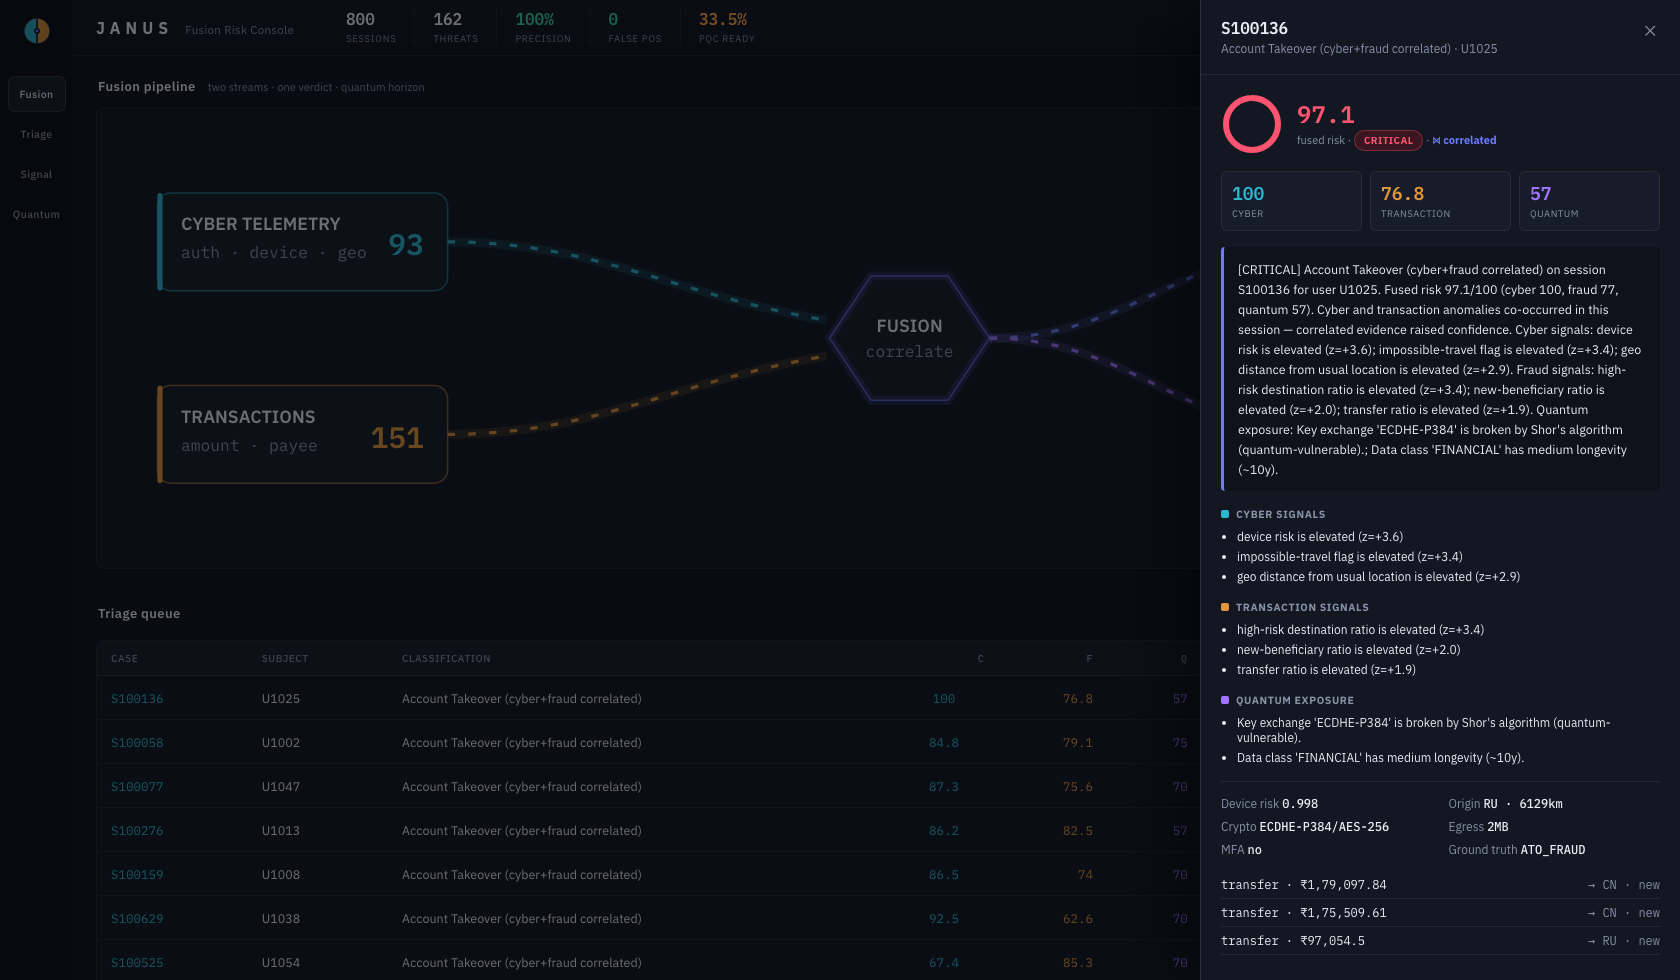
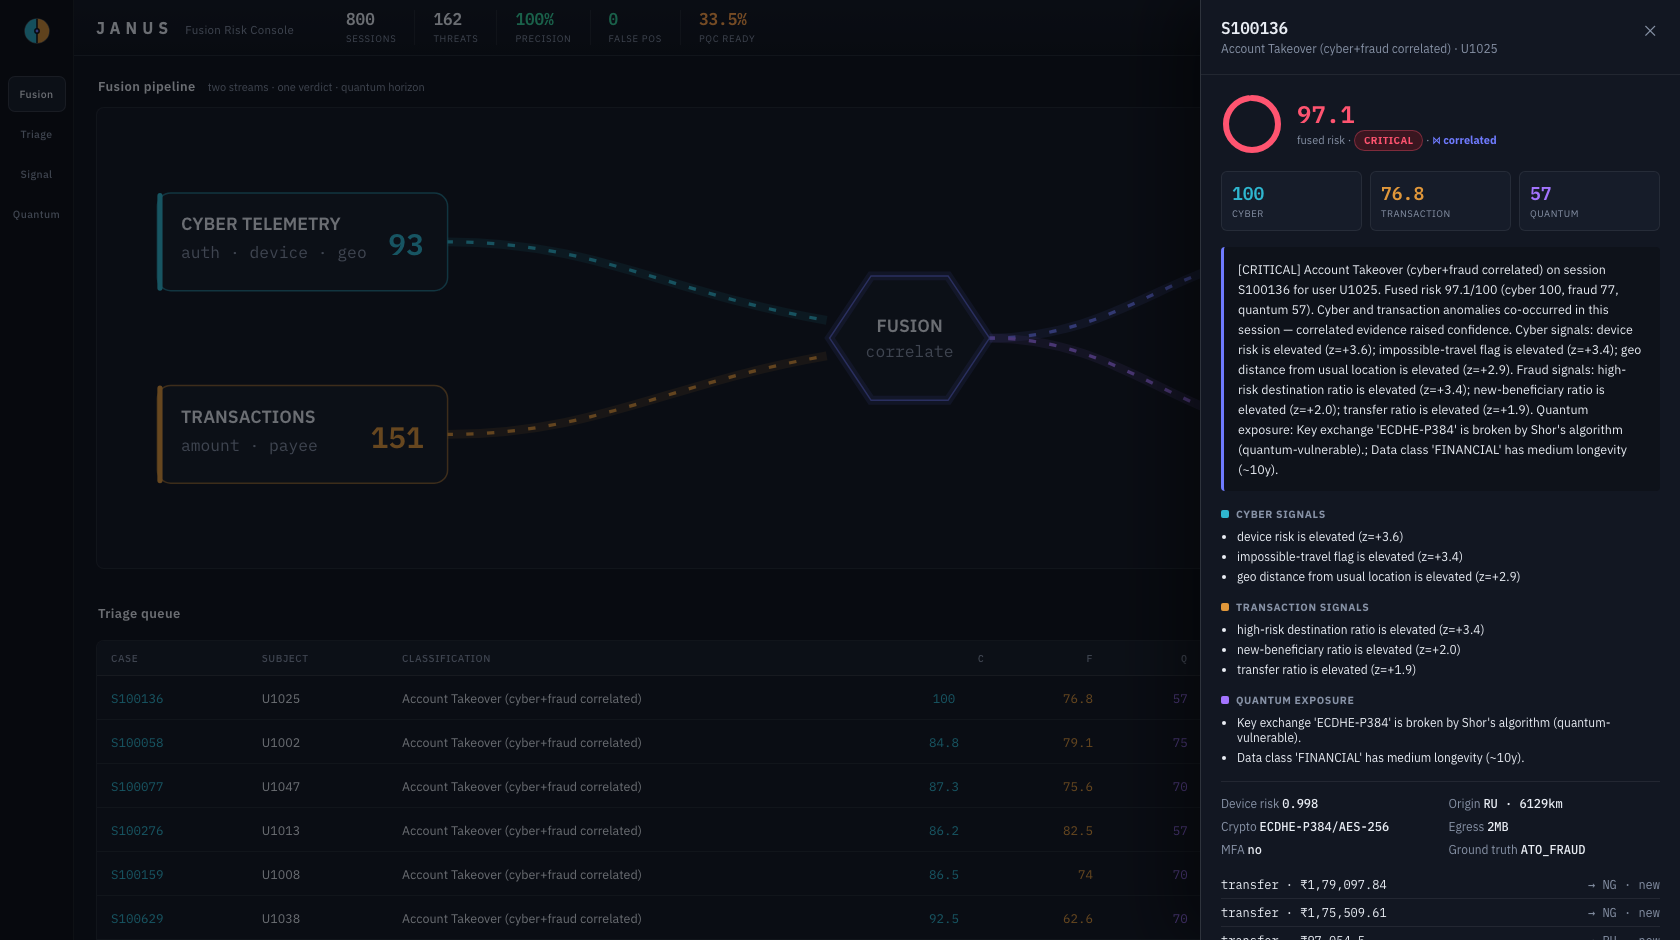
perf(ui): fix chart sizing, snappier hover, capped triage pane, isolated paints

diff --git a/static/style.css b/static/style.css
@@ -114,16 +114,26 @@ body {
 .hint, .block-head .controls + .hint { color: var(--muted); font-size: 11px; }
 .hint { color: var(--muted); font-size: 11px; }
 
-.card { background: var(--ink-800); border: 1px solid var(--line); border-radius: var(--r); }
+.card { background: var(--ink-800); border: 1px solid var(--line); border-radius: var(--r); contain: content; }
 .card.pad { padding: 16px; }
 .two { display: grid; grid-template-columns: 1fr 1fr; gap: 16px; }
+
+/* on-load reveal — GPU-composited (opacity/transform only), reduced-motion safe */
+.block { animation: rise .34s ease both; }
+.block:nth-child(2) { animation-delay: .04s; }
+@keyframes rise { from { opacity: 0; transform: translateY(8px); } to { opacity: 1; transform: none; } }
+@media (prefers-reduced-motion: reduce) { .block { animation: none; } }
 .mini-head { font-size: 11px; text-transform: uppercase; letter-spacing: 0.7px; color: var(--muted); margin-bottom: 12px; }
 .foot { color: var(--muted); font-size: 11.5px; margin: 12px 0 0; line-height: 1.5; }
 
+/* charts get a fixed viewport so they never stretch the page */
+.chartbox { position: relative; height: 230px; }
+.chartbox canvas { position: absolute; inset: 0; width: 100% !important; height: 100% !important; }
+
 /* ---------------- fusion pipeline ---------------- */
-.pipeline { padding: 8px 10px; }
+.pipeline { padding: 8px 10px; contain: paint; }
 #pipe { width: 100%; height: auto; display: block; }
-.flow { stroke-dasharray: 5 9; animation: flow 1.1s linear infinite; }
+.flow { stroke-dasharray: 5 9; animation: flow 1.1s linear infinite; will-change: stroke-dashoffset; }
 @keyframes flow { to { stroke-dashoffset: -14; } }
 @media (prefers-reduced-motion: reduce) { .flow { animation: none; } .dot.live { animation: none; } }
 .node-label { font-family: var(--sans); font-size: 12px; font-weight: 600; fill: var(--text); }
@@ -143,7 +153,7 @@ body {
 .thresh input { accent-color: var(--fused); vertical-align: middle; }
 .thresh b { color: var(--text); font-family: var(--mono); }
 
-.queue-card { overflow: hidden; }
+.queue-card { overflow: auto; contain: content; max-height: 56vh; }
 table { width: 100%; border-collapse: collapse; font-size: 12.5px; }
 #queue thead th {
   position: sticky; top: 0; background: var(--ink-750); color: var(--muted);
@@ -153,7 +163,7 @@ table { width: 100%; border-collapse: collapse; font-size: 12.5px; }
 #queue th.num, #queue td.n { text-align: right; }
 #queue th.cc, #queue td.c { text-align: center; }
 #queue tbody td { padding: 11px 14px; border-bottom: 1px solid var(--line); }
-#queue tbody tr { cursor: pointer; transition: background .12s; }
+#queue tbody tr { cursor: pointer; }
 #queue tbody tr:hover { background: var(--ink-750); }
 #queue tbody tr.sel { background: var(--ink-700); }
 td.case { font-family: var(--mono); color: var(--cyber); }

diff --git a/static/app.js b/static/app.js
@@ -264,11 +264,17 @@ function wireUI() {
     n.addEventListener("click", () => document.getElementById(n.dataset.target)
       .scrollIntoView({ behavior: "smooth", block: "start" })));
   const view = $(".view");
+  let ticking = false;
   view.addEventListener("scroll", () => {
-    const y = view.scrollTop + 90;
-    let cur = sections[0].id;
-    for (const s of sections) if (s.offsetTop <= y) cur = s.id;
-    document.querySelectorAll(".nav-item").forEach((n) =>
-      n.classList.toggle("active", n.dataset.target === cur));
-  });
+    if (ticking) return;
+    ticking = true;
+    requestAnimationFrame(() => {
+      const y = view.scrollTop + 90;
+      let cur = sections[0].id;
+      for (const s of sections) if (s.offsetTop <= y) cur = s.id;
+      document.querySelectorAll(".nav-item").forEach((n) =>
+        n.classList.toggle("active", n.dataset.target === cur));
+      ticking = false;
+    });
+  }, { passive: true });
 }

diff --git a/static/index.html b/static/index.html
@@ -97,12 +97,12 @@
         <div class="two">
           <div class="card pad">
             <div class="mini-head">Detection · precision / recall / F1</div>
-            <canvas id="metricsChart" height="200"></canvas>
+            <div class="chartbox"><canvas id="metricsChart"></canvas></div>
             <p class="foot" id="fpNote"></p>
           </div>
           <div class="card pad">
             <div class="mini-head">Actioned caseload by classification</div>
-            <canvas id="threatChart" height="200"></canvas>
+            <div class="chartbox"><canvas id="threatChart"></canvas></div>
           </div>
         </div>
       </section>
@@ -113,7 +113,7 @@
         <div class="two">
           <div class="card pad">
             <div class="mini-head">Cryptographic posture</div>
-            <canvas id="quantumChart" height="200"></canvas>
+            <div class="chartbox"><canvas id="quantumChart"></canvas></div>
             <p class="foot" id="quantumNote"></p>
           </div>
           <div class="card pad">